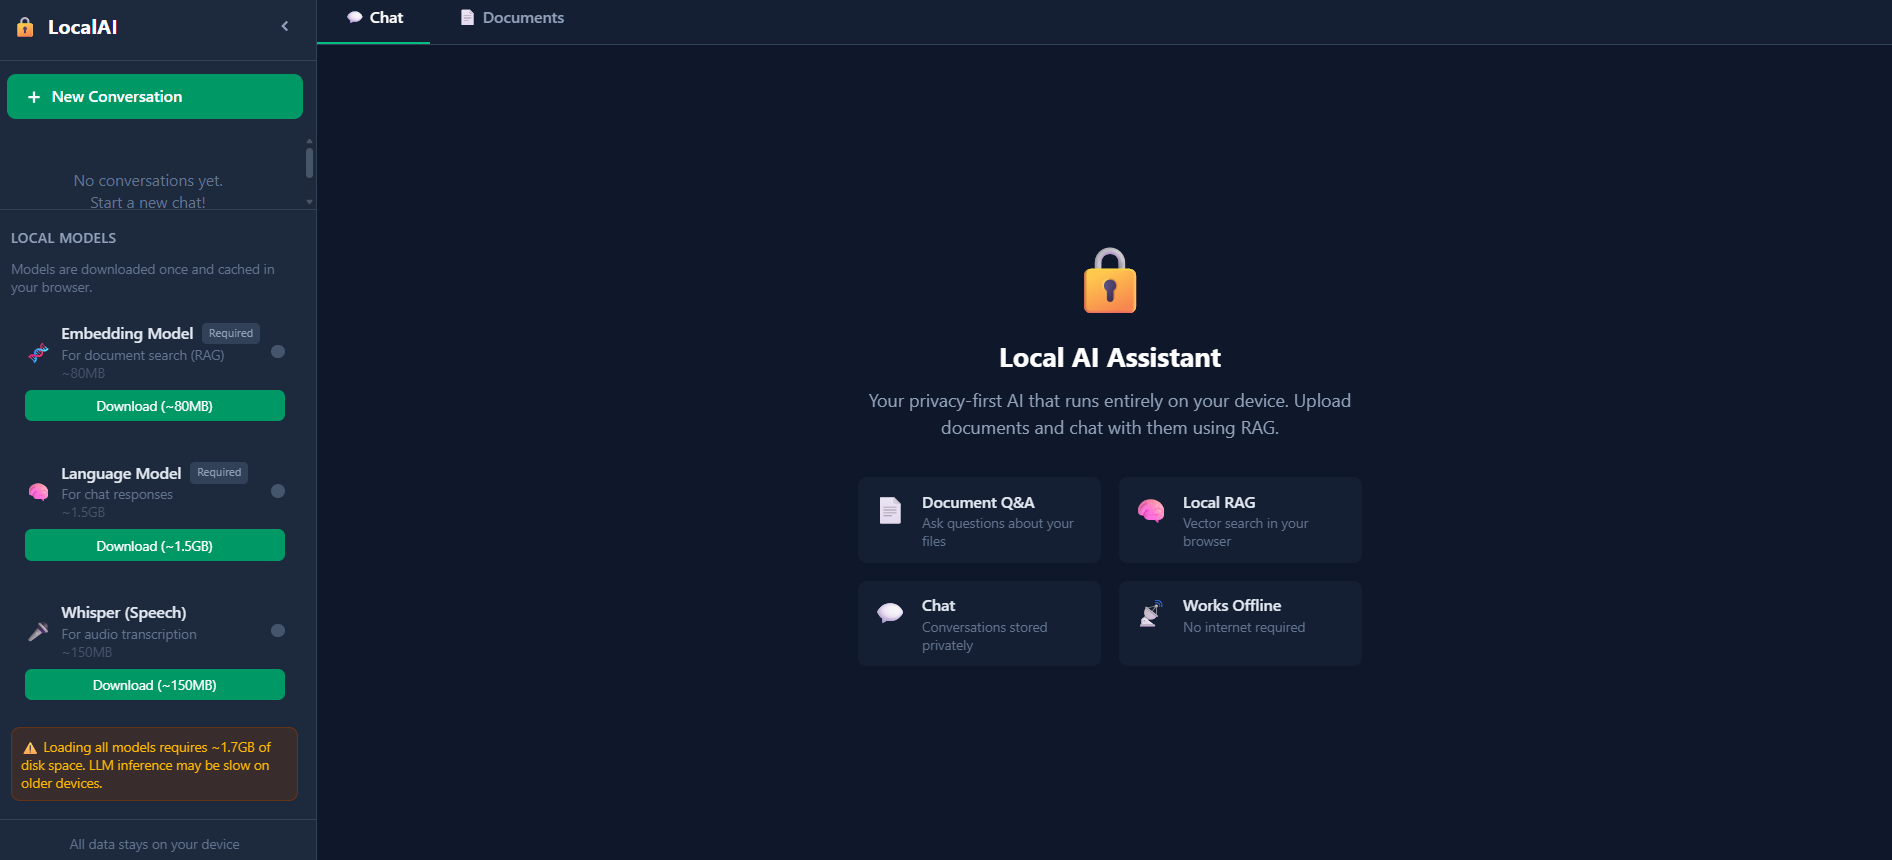
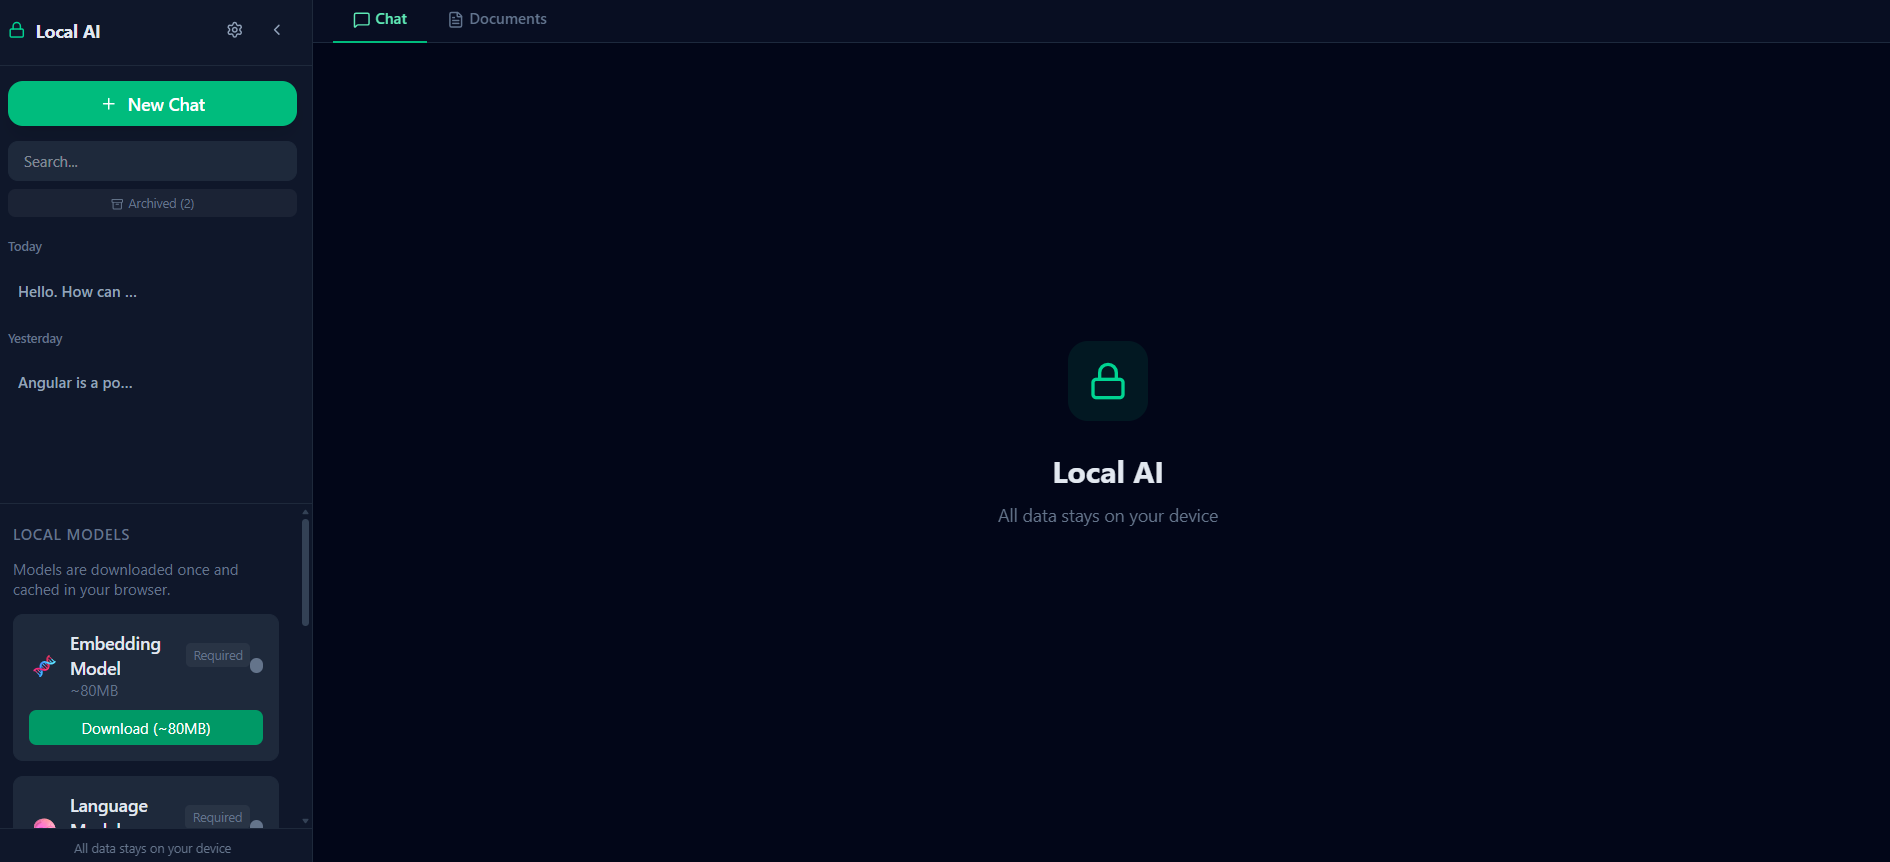
Security: Add CSP, XSS sanitization, rate limiting, SSRF protection

diff --git a/src/lib/security.js b/src/lib/security.js
@@ -1,0 +1,122 @@
+// ============================================================
+// Security utilities — input sanitization, CSP, rate limiting
+// ============================================================
+
+/**
+ * Sanitize user-provided text to prevent XSS
+ */
+export function sanitizeText(input) {
+  if (!input) return '';
+  // Strip HTML tags
+  let text = input.replace(/<[^>]*>/g, '');
+  // Decode HTML entities to prevent encoded XSS
+  text = text.replace(/</g, '<').replace(/>/g, '>').replace(/&/g, '&');
+  // Remove event handlers (onclick, onerror, etc.)
+  text = text.replace(/\bon\w+\s*=\s*["'][^"']*["']/gi, '');
+  text = text.replace(/\bon\w+\s*=\s*[^\s>]+/gi, '');
+  // Remove javascript: URLs
+  text = text.replace(/javascript:\s*/gi, '');
+  // Remove data: URLs that could contain executable content
+  text = text.replace(/data:\s*text\/html/gi, '');
+  return text.trim();
+}
+
+/**
+ * Sanitize a conversation title
+ */
+export function sanitizeTitle(input) {
+  return sanitizeText(input).slice(0, 200);
+}
+
+/**
+ * Rate limiter for API calls — prevents abuse
+ */
+export class RateLimiter {
+  constructor(maxCalls = 10, windowMs = 60000) {
+    this.calls = new Map();
+    this.maxCalls = maxCalls;
+    this.windowMs = windowMs;
+  }
+
+  canCall(key) {
+    const now = Date.now();
+    const timestamps = this.calls.get(key) || [];
+    // Remove expired timestamps
+    const valid = timestamps.filter((t) => now - t < this.windowMs);
+    this.calls.set(key, valid);
+    if (valid.length >= this.maxCalls) return false;
+    valid.push(now);
+    this.calls.set(key, valid);
+    return true;
+  }
+
+  reset(key) {
+    this.calls.delete(key);
+  }
+}
+
+// Global rate limiters for different operations
+export const webSearchRateLimiter = new RateLimiter(5, 60000); // 5 calls per minute
+export const exportRateLimiter = new RateLimiter(3, 60000); // 3 exports per minute
+
+/**
+ * Validate a URL is safe to fetch (for external web search)
+ * Allows localhost for local LLM server connections
+ */
+export function isValidUrl(url, allowLocalhost = false) {
+  try {
+    const parsed = new URL(url);
+    const allowedProtocols = ['http:', 'https:'];
+    if (!allowedProtocols.includes(parsed.protocol)) return false;
+    if (!allowLocalhost) {
+      // Block common SSRF targets for external fetches
+      const blockedHosts = ['localhost', '127.0.0.1', '0.0.0.0', '[::1]', '169.254.169.254'];
+      if (blockedHosts.some((h) => parsed.hostname.includes(h))) return false;
+    }
+    return true;
+  } catch {
+    return false;
+  }
+}
+
+/**
+ * Content-Security-Policy headers (for HTML meta tag or server config)
+ */
+export function getCSPDirectives() {
+  return {
+    'default-src': ["'self'"],
+    'script-src': ["'self'", "'unsafe-eval'", "'unsafe-inline'"], // unsafe-eval needed for transformers.js
+    'style-src': ["'self'", "'unsafe-inline'"],
+    'img-src': ["'self'", 'data:', 'blob:'],
+    'font-src': ["'self'", 'data:'],
+    'connect-src': [
+      "'self'",
+      'http://localhost:*',
+      'http://127.0.0.1:*',
+      'https://huggingface.co',
+      'https://cdn-lfs.huggingface.co',
+      'https://api.allorigins.win',
+      'https://api.duckduckgo.com',
+    ],
+    'media-src': ["'self'", 'blob:'],
+    'worker-src': ["'self'", 'blob:'],
+  };
+}
+
+/**
+ * Apply CSP as a meta tag (for environments where HTTP headers can't be set)
+ */
+export function applyCSP() {
+  const directives = getCSPDirectives();
+  const policy = Object.entries(directives)
+    .map(([key, values]) => `${key} ${values.join(' ')}`)
+    .join('; ');
+
+  let meta = document.querySelector('meta[http-equiv="Content-Security-Policy"]');
+  if (!meta) {
+    meta = document.createElement('meta');
+    meta.setAttribute('http-equiv', 'Content-Security-Policy');
+    document.head.appendChild(meta);
+  }
+  meta.setAttribute('content', policy);
+}

diff --git a/src/contexts.jsx b/src/contexts.jsx
@@ -1,0 +1,25 @@
+// ============================================================
+// Contexts — separated from App.jsx for Fast Refresh compatibility
+// ============================================================
+
+import { createContext, useContext } from 'react';
+
+export const LangContext = createContext({ lang: 'en', switchLang: () => {} });
+export const ToastContext = createContext(null);
+export const ModelStatusContext = createContext({ anyLoading: false, embeddingModelReady: false });
+
+export function useLang() {
+  const ctx = useContext(LangContext);
+  if (!ctx) throw new Error('useLang must be used within LangContext.Provider');
+  return ctx;
+}
+
+export function useToast() {
+  return useContext(ToastContext);
+}
+
+export function useModelStatus() {
+  const ctx = useContext(ModelStatusContext);
+  if (!ctx) throw new Error('useModelStatus must be used within ModelStatusContext.Provider');
+  return ctx;
+}

diff --git a/src/types.js b/src/types.js
@@ -1,0 +1,5 @@
+// Type definitions removed — all types are now documented inline
+// in the functions that use them. This file was kept as a reference
+// but caused VS Code TypeScript service conflicts.
+// See src/types.ts (if present) for the TypeScript version.
+export {};

diff --git a/src/lib/vector-store-access.js b/src/lib/vector-store-access.js
@@ -9,3 +9,7 @@ export async function getVectorStore() {
 
   return vectorStorePromise;
 }
+
+export function resetVectorStore() {
+  vectorStorePromise = null;
+}
